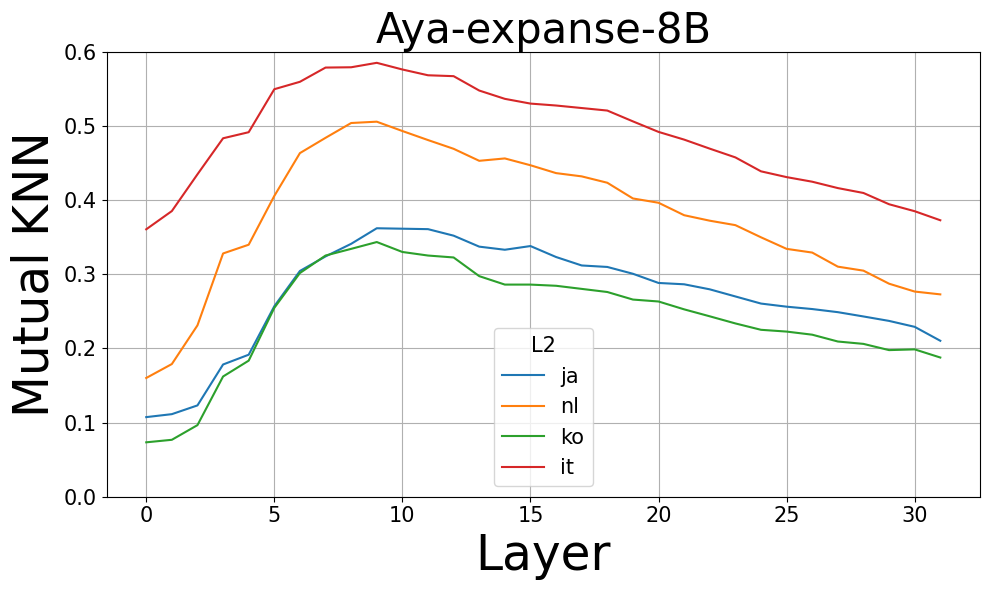
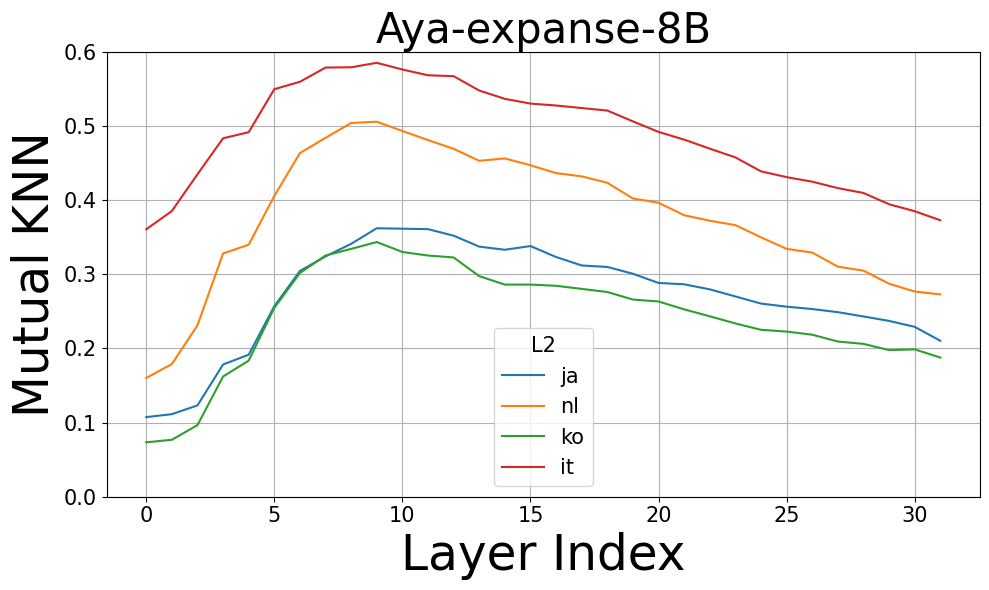
update

Changed region(s): [[0.3943, 0.9153, 0.6977, 0.9763]]

diff --git a/activated_neuron/new_neurons/transfer_neurons/mutual_knn/calc_mutual_knn.py b/activated_neuron/new_neurons/transfer_neurons/mutual_knn/calc_mutual_knn.py
@@ -55,7 +55,7 @@ all_data = []
 
 # Load and reshape data for each model
 for model_type in model_types:
-    path = f'/home/s2410121/proj_LA/activated_neuron/new_neurons/pickles/transfer_neurons/{model_type}/knn/res_all_langs_k10.pkl'
+    path = f'/home/s2410121/proj_LA/activated_neuron/new_neurons/pickles/transfer_neurons/{model_type}/knn/res_all_langs.pkl'
     model_data = unfreeze_pickle(path)
     
     for lang in languages:
@@ -78,7 +78,7 @@ for model_type in model_types:
     sns.lineplot(data=subset, x='Layer', y='Mutual KNN', hue='L2', palette='tab10')
     model_name = 'LLaMA3-8B' if model_type == 'llama3' else 'Mistral-7B' if model_type == 'mistral' else 'Aya-expanse-8B'
     plt.title(f'{model_name}', fontsize=30)
-    plt.xlabel('Layer', fontsize=35)
+    plt.xlabel('Layer Index', fontsize=35)
     plt.ylabel('Mutual KNN', fontsize=35)
     plt.ylim(0, 0.6)
     plt.tick_params(axis='both', labelsize=15)
